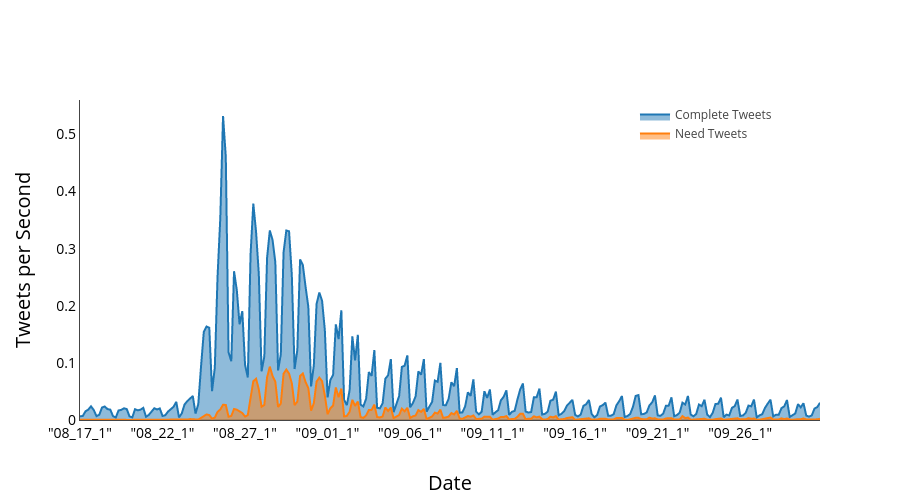
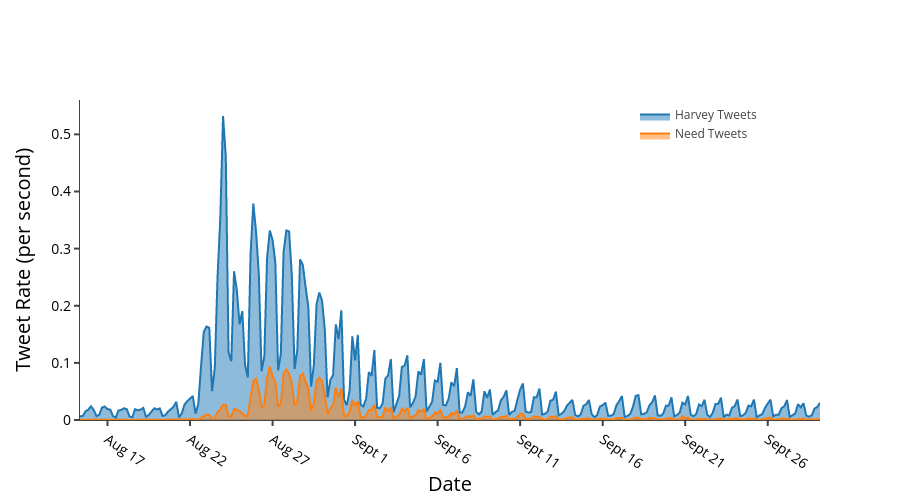
All tweet rate graphing is done in program now

diff --git a/tweet-rate-graph/tweet-rate.py b/tweet-rate-graph/tweet-rate.py
@@ -14,7 +14,7 @@ py.sign_in('JStuve', 'mVRUE6CCF94yvNnRxeuu') # Replace the username, and API key
 print(sys.argv)
 
 if(len(sys.argv) != 3):
-    print('Please enter file name:\n $python tweet-rate.py data1.csv data2.csv')
+    print('Please enter file name:\n $python tweet-rate.py CompleteTweetData.csv NeedTweeData.csv')
 
 
 
@@ -46,16 +46,14 @@ else:
         split = line.split('_')
         line = "{}/{}".format(split[0], split[1])   
         labels.append(line)
-            
-    print(labels)
-    
+        
     x = len(labels)
     
     trace1 = go.Scatter(
         x= xData,
         y= yData,
         fill='tozeroy',
-        name="Complete Tweets"
+        name="Harvey Tweets"
     )
     
     trace2 = go.Scatter(
@@ -67,6 +65,8 @@ else:
     
     
     data = [trace1, trace2]
+    
+    print("X_Length: " + str(len(xData)))
     
     layout = dict(
             width = 900,
@@ -88,7 +88,10 @@ else:
                         size = 14,
                         color = "#000"
                 ),
-                ticktext = ['8/20','8/25', '8/30','9/4','9/14','9/19','9/24','9/29'],
+                tickvals= [10,40,70,100,130,160,190,220,250],
+                ticktext= ["Aug 17","Aug 22","Aug 27","Sept 1", "Sept 6", "Sept 11", "Sept 16", "Sept 21", "Sept 26"],
+                tickwidth=2,
+                tickangle=35,
                 dtick=30,
                         
             ),
@@ -96,7 +99,7 @@ else:
                 showgrid = False,
                 zeroline = True,
                 showline=True,
-                title = "Tweets per Second",
+                title = "Tweet Rate (per second)",
                 titlefont = dict(
                         size = 20,
                         color = "#000"
@@ -105,6 +108,7 @@ else:
                         size = 14,
                         color = "#000"
                 ),
+                tickwidth=2,
             ),
         )
     print("Creating Plotly Graph")
